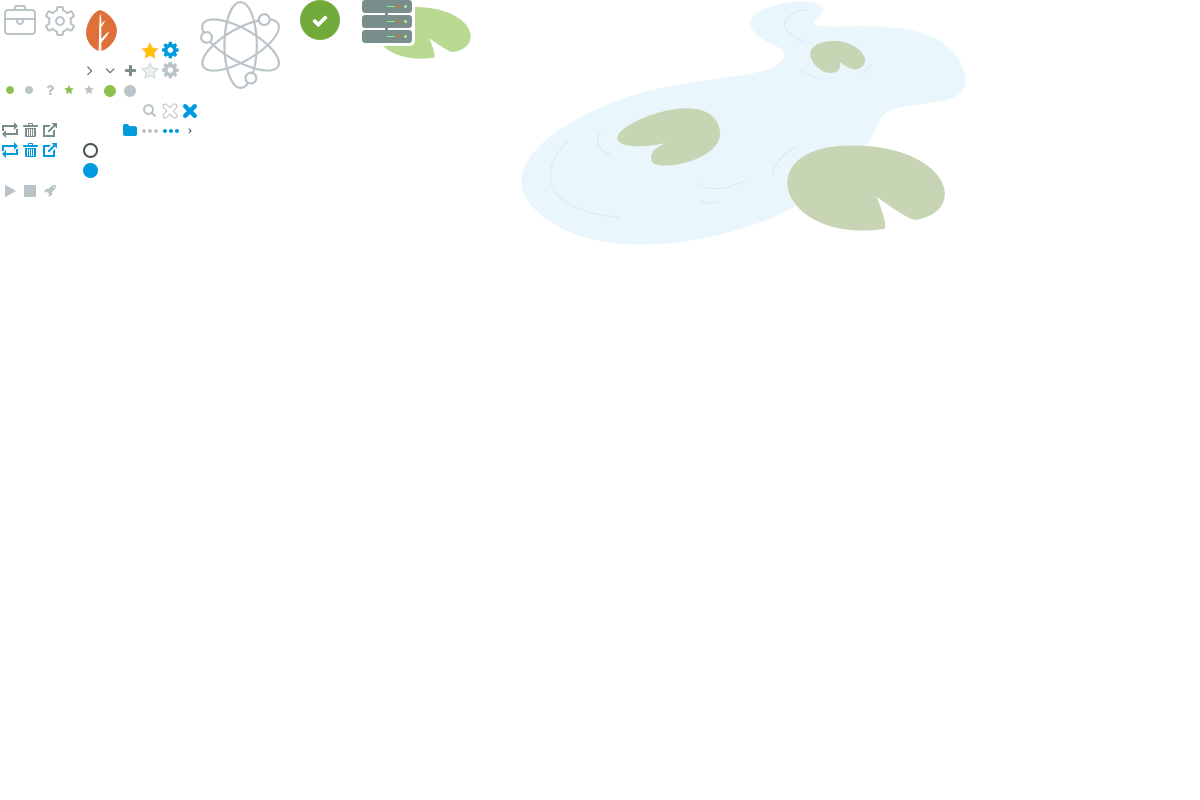
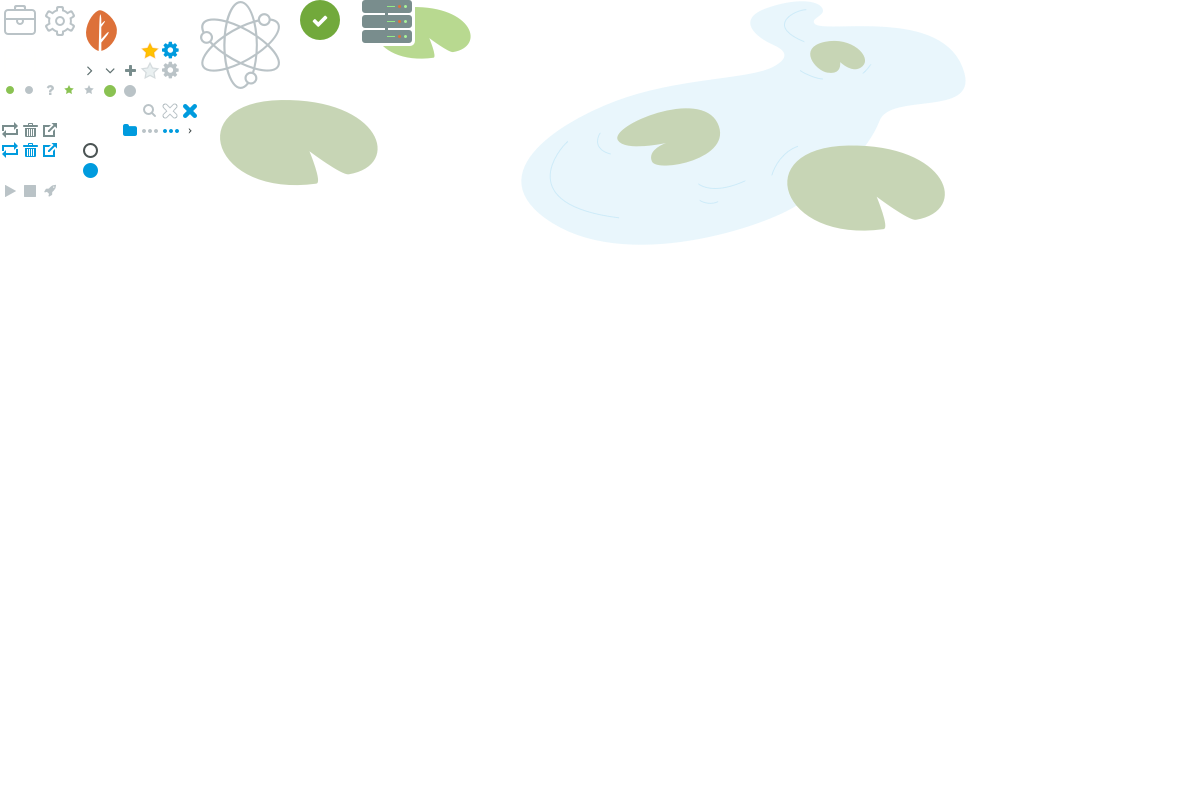
Project creation, in progress

Changed region(s): [[0.185, 0.125, 0.3392, 0.25]]

diff --git a/app/src/js/components/current-project-view.vue b/app/src/js/components/current-project-view.vue
@@ -46,7 +46,7 @@
                         </tr>
                         <tr>
                             <th>{{ $t('projects.location') }}</th>
-                            <td>{{ selectedProject.location }}</td>
+                            <td><a href="#" @click.prevent="openProjectFolder">{{ selectedProject.location }}</a></td>
                         </tr>
                         <tr>
                             <th>{{ $t('projects.local') }}</th>
@@ -63,17 +63,17 @@
             <div class="layout-flex-row layout-stretch layout-flex-rows-container">
                 <div class="material-tabs layout-flex-row layout-stretch layout-flex-rows-container">
                     <ul class="tabs layout-flex-row">
-                        <li class="active"><a href="#tab-application-log" data-toggle="tab">{{ $t('projects.application_log') }}</a></li>
-                        <li><a href="#tab-server-log" data-toggle="tab">{{ $t('projects.server_log') }}</a></li>
+                        <li class="active"><a href="#tab-server-log" data-toggle="tab">{{ $t('projects.server_log') }}</a></li>
+                        <li><a href="#tab-application-log" data-toggle="tab">{{ $t('projects.application_log') }}</a></li>
                         <li><a href="#tab-php-error-log" data-toggle="tab">{{ $t('projects.php_error_log') }} <!-- <span class="badge badge-error">4</span> --></a></li>
                     </ul>
 
                     <div class="tab-content layout-flex-row layout-stretch layout-flex-rows-container layout-relative">
-                        <div role="tabpanel" class="tab-pane active layout-full-size" id="tab-application-log">
-                            <log-panel v-bind:log="selectedProject.runtime.applicationLog"></log-panel>
-                        </div>
-                        <div role="tabpanel" class="tab-pane layout-full-size" id="tab-server-log">
+                        <div role="tabpanel" class="tab-pane active layout-full-size" id="tab-server-log">
                             <log-panel v-bind:log="selectedProject.runtime.serverLog"></log-panel>
+                        </div>
+                        <div role="tabpanel" class="tab-pane layout-full-size" id="tab-application-log">
+                            <log-panel v-bind:log="selectedProject.runtime.applicationLog"></log-panel>
                         </div>
                         <div role="tabpanel" class="tab-pane layout-full-size" id="tab-php-error-log">
                             <log-panel v-bind:log="selectedProject.runtime.phpErrorLog"></log-panel>
@@ -153,6 +153,10 @@ export default {
             }
 
             this.$store.dispatch('stopServer', this.selectedProject)
+        },
+        openProjectFolder () {
+            const gui = nw.require('nw.gui')
+            gui.Shell.showItemInFolder(this.selectedProject.location)
         }
     },
     components: {

diff --git a/app/src/js/stores/projects/mutations.js b/app/src/js/stores/projects/mutations.js
@@ -1,5 +1,6 @@
 const LogState = require('../../projects/log-state')
 const environmentStatus = require('../../environments/status')
+const initializationState = require('../../environments/initialization-state')
 
 function findProjectById(state, id) {
     return state.list.find(project => project.id == id)
@@ -24,13 +25,12 @@ module.exports = {
     // and nullify internal references.
 
     SET_PROJECTS (state, payload) {
-        state.loading = false
-
         payload.projects.forEach(project => 
             createProjectRuntimeState(project)
         )
 
         state.list = payload.projects
+        setTimeout(() => {state.loading = false}, 500)
     },
     SET_SELECTED_PROJECT (state, payload) {
         if (!payload.project.runtime.serverLog) {
@@ -44,27 +44,42 @@ module.exports = {
     SET_STARRED (state, payload) {
         payload.project.starred = payload.starred
     },
-    SET_PROJECT_STATUS (state, payload)
-    {
+    SET_PROJECT_STATUS (state, payload) {
         const project = findProjectById(state, payload.projectId)
 
         if (project) {
             project.runtime.status = payload.status
         }
     },
-    LOG_SERVER_EVENT (state, payload)
-    {
+    LOG_SERVER_EVENT (state, payload) {
         const project = findProjectById(state, payload.projectId)
 
         if (project) {
             project.runtime.serverLog.addLine(payload.message)
         }
     },
-    ADD_PROJECT (state, payload)
-    {
+    ADD_PROJECT (state, payload) {
         var project = payload.project
 
         createProjectRuntimeState(project)
         state.list.push(project)
+    },
+    INIT_NEW_PROJECT_STATE (state, payload)
+    {
+        state.newProject =  {
+            name: '',
+            environmentType: '',
+            location: '',
+            client: '',
+            description: '',
+            localPort: null,
+            initState: new initializationState.Tracker()
+        }
+
+        if (payload && payload.isDemo) {
+            state.newProject.name = 'October CMS Demo'
+            state.newProject.client = 'Demo client'
+            state.newProject.description = 'My first October CMS project!'
+        }
     }
 }

diff --git a/app/src/js/components/projects-view.vue b/app/src/js/components/projects-view.vue
@@ -2,13 +2,22 @@
     <div class="app-container">
         <sidebar></sidebar>
 
-        <div class="project-view-container main-view flex-item" v-if="hasProjects">
-            <projects-side-panel></projects-side-panel>
-            <current-project-view></current-project-view>
-        </div>
-        <div class="project-view-container main-view flex-item" v-else>
-            <welcome></welcome>
-        </div>
+        <template v-if="loading">
+            <div class="project-view-container main-view flex-item">
+                <div class="loading-projects">
+                    <div><p>{{ $t('projects.loading') }}</p></div>
+                </div>
+            </div>
+        </template>
+        <template v-else>
+            <div class="project-view-container main-view flex-item" v-if="hasProjects">
+                <projects-side-panel></projects-side-panel>
+                <current-project-view></current-project-view>
+            </div>
+            <div class="project-view-container main-view flex-item" v-else>
+                <welcome></welcome>
+            </div>
+        </template>
     </div>
 </template>
 
@@ -28,6 +37,9 @@ export default {
     computed: {
         hasProjects () {
             return this.$store.state.projects.list.length > 0
+        },
+        loading () {
+            return this.$store.state.projects.loading
         }
     }
 }

diff --git a/app/src/stylesheets/components/welcome.less b/app/src/stylesheets/components/welcome.less
@@ -2,13 +2,17 @@ div.project-view-container {
     > div.flex-item {
         &.welcome-to-pond {
             flex: 1 1 auto;
+            display: flex;
+            justify-content: center;
+            align-items: center;
+            text-align: center;
 
-            .welcome-graphics {
-                display: inline-block;
-                margin: @standard-padding*2 auto;
-                width: 445px;
-                height: 244px;
-                .icons-sprite(521px, 1px);
+            > div {
+                &:before {
+                    .icons-sprite-pseudo(445px, 244px, 521px, 1px);
+                    display: inline-block;
+                    margin-bottom: 60px;
+                }
             }
         }
     }

diff --git a/app/src/js/components/welcome.vue b/app/src/js/components/welcome.vue
@@ -1,14 +1,22 @@
 <template>
     <div class="flex-item welcome-to-pond">
-        <div class="welcome-graphics"></div>
-            <!-- Welcome -->
-        SEE     .no-project-selected {
+        <div>
+            <h3>{{ $t('projects.welcome') }}</h3>
+            <p class="double-padding-top">{{ $t('projects.no_projects') }}</p>
+            <p class="text-center double-padding-top">
+                <a class="btn btn-primary" @click.stop.prevent="createProject">{{ $t('projects.create_first_project') }}</a>
+            </p>
+        </div>
     </div>
 </template>
 
 <script>
 
 export default {
-    
+    methods: {
+        createProject () {
+            this.$router.push('/new-project')
+        }
+    },
 }
 </script>

diff --git a/app/src/js/stores/projects/index.js b/app/src/js/stores/projects/index.js
@@ -1,7 +1,6 @@
 const Actions = require('./actions')
 const Mutations = require('./mutations')
 const LogState = require('../../projects/log-state')
-const initializationState = require('../../environments/initialization-state')
 
 module.exports = {
     state: {
@@ -25,14 +24,7 @@ module.exports = {
             // }
         ],
         selectedProject: null,
-        newProject: {
-            name: '',
-            environmentType: '',
-            location: '',
-            client: '',
-            localPort: null,
-            initState: new initializationState.Tracker()
-        }
+        newProject: {}
     },
 
     mutations: Mutations,

diff --git a/app/src/stylesheets/components/project-view.less b/app/src/stylesheets/components/project-view.less
@@ -19,4 +19,21 @@ div.project-view-container {
             flex: 1 0 auto;
         }
     }
+
+    .loading-projects {
+        text-align: center;
+        display: flex;
+        justify-content: center;
+        align-items: center;
+        height: 100%;
+        width: 100%;
+
+        > div {
+            &:before {
+                .icons-sprite-pseudo(158px, 86px, 220px, 100px);
+                display: inline-block;
+                margin-bottom: 30px;
+            }
+        }
+    }
 }

diff --git a/app/src/js/i18n/en.js b/app/src/js/i18n/en.js
@@ -18,6 +18,10 @@ module.exports = {
         php_error_log: 'PHP error log',
         refresh: 'Refresh',
         clear: 'Clear',
+        welcome: 'Welcome to the Pond!',
+        create_first_project: 'Create your first project',
+        no_projects: 'You don\'t have any projects yet. Create your first project and enjoy October CMS!',
+        loading: 'Loading projects...',
         environment_type: {
             unknown: 'Unknown',
             pond: 'Built-in Pond server',

diff --git a/app/src/js/components/new-project/index.vue b/app/src/js/components/new-project/index.vue
@@ -61,9 +61,12 @@ export default {
         }
     },
     mounted () {
-        // TODO - commit a mutation for setting the newProject state property.
-        // If it's a first project - prepopulate with demo data,
-        // see #6
+        if (!this.$store.state.projects.list.length) {
+            this.$store.dispatch('initNewProjectState', {isDemo: true})
+        }
+        else {
+            this.$store.dispatch('initNewProjectState')
+        }
     }
 }
 </script>

diff --git a/app/src/js/stores/projects/actions.js b/app/src/js/stores/projects/actions.js
@@ -43,5 +43,8 @@ module.exports = {
     },
     addProject (context, payload) {
         context.commit('ADD_PROJECT', payload)
+    },
+    initNewProjectState (context, payload) {
+        context.commit('INIT_NEW_PROJECT_STATE', payload)
     }
 }
